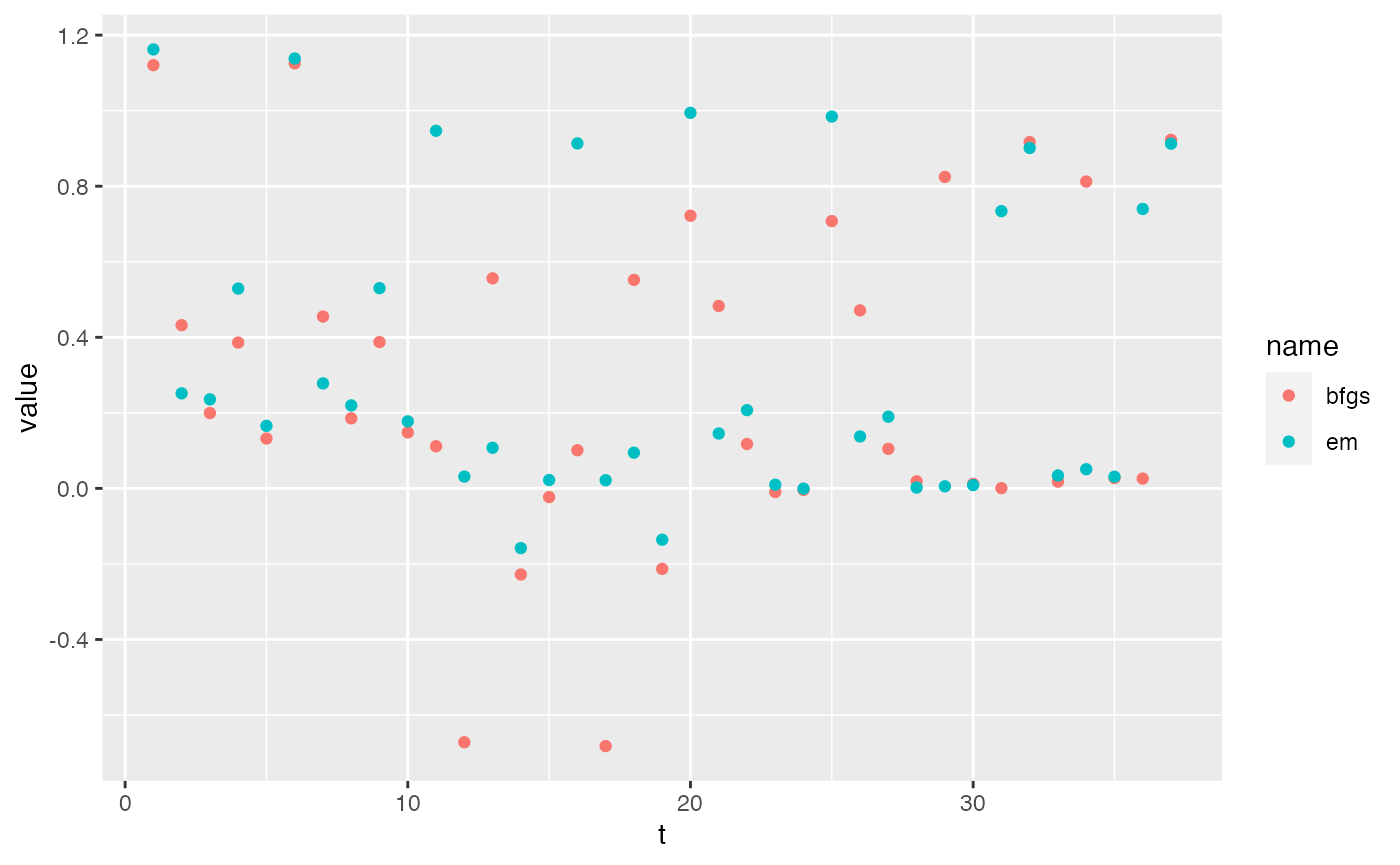
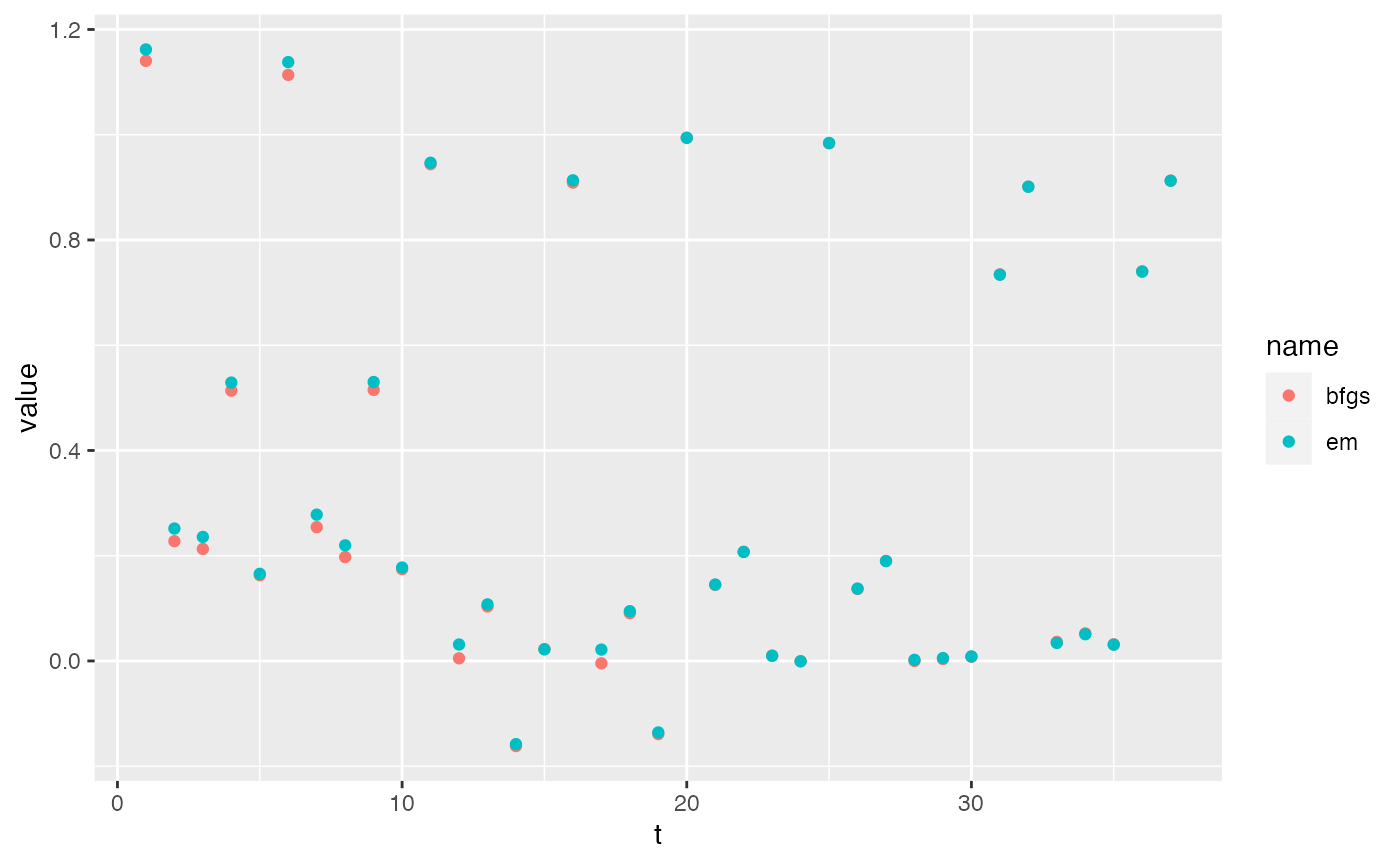
try remaining MARSStmb

diff --git a/docs/articles/DFA.html b/docs/articles/DFA.html
@@ -81,7 +81,7 @@
       <h1 data-toc-skip>Dynamic Factor Analysis</h1>
                         <h4 data-toc-skip class="author">Eli Holmes</h4>
             
-            <h4 data-toc-skip class="date">2023-04-29</h4>
+            <h4 data-toc-skip class="date">2023-04-30</h4>
       
       <small class="dont-index">Source: <a href="https://github.com/atsa-es/marssTMB/blob/HEAD/vignettes/DFA.Rmd" class="external-link"><code>vignettes/DFA.Rmd</code></a></small>
       <div class="hidden name"><code>DFA.Rmd</code></div>
@@ -146,27 +146,38 @@ and unequal, and unconstrained.</p>
 <span><span class="va">m1.tmb</span> <span class="op">&lt;-</span> <span class="fu"><a href="../reference/dfaTMB.html">dfaTMB</a></span><span class="op">(</span><span class="va">dat</span>, model<span class="op">=</span><span class="va">mod.list</span><span class="op">)</span></span>
 <span><span class="fu"><a href="https://rdrr.io/r/base/c.html" class="external-link">c</a></span><span class="op">(</span><span class="va">m1.bfgs</span><span class="op">$</span><span class="va">logLik</span>, <span class="va">m1.tmb</span><span class="op">$</span><span class="va">logLik</span><span class="op">)</span></span>
 <span><span class="co">#&gt; [1] -798.3209 -798.3209</span></span></code></pre></div>
+<div class="section level2">
+<h2 id="look-at-a-bigger-data-set">Look at a bigger data set<a class="anchor" aria-label="anchor" href="#look-at-a-bigger-data-set"></a>
+</h2>
 <p>Compare three states models with R diagonal and unequal and 12 time
-series. The EM algorithm struggles to converge with DFA models.</p>
+series. The EM algorithm and TMB algorithms struggles to converge with
+DFA models. This is specific to this set of time series.</p>
 <div class="sourceCode" id="cb8"><pre class="downlit sourceCode r">
 <code class="sourceCode R"><span><span class="va">dat2</span> <span class="op">&lt;-</span> <span class="fu"><a href="https://rdrr.io/r/base/cbind.html" class="external-link">rbind</a></span><span class="op">(</span><span class="va">dat</span>, <span class="va">dat</span><span class="op">+</span><span class="fu"><a href="https://rdrr.io/r/base/matrix.html" class="external-link">matrix</a></span><span class="op">(</span><span class="fu"><a href="https://rdrr.io/r/stats/Normal.html" class="external-link">rnorm</a></span><span class="op">(</span><span class="fu"><a href="https://rdrr.io/r/base/nrow.html" class="external-link">nrow</a></span><span class="op">(</span><span class="va">dat</span><span class="op">)</span><span class="op">*</span><span class="fu"><a href="https://rdrr.io/r/base/nrow.html" class="external-link">ncol</a></span><span class="op">(</span><span class="va">dat</span><span class="op">)</span>,<span class="fl">0</span>,<span class="fl">0.2</span><span class="op">)</span>, <span class="fu"><a href="https://rdrr.io/r/base/nrow.html" class="external-link">nrow</a></span><span class="op">(</span><span class="va">dat</span><span class="op">)</span>, <span class="fu"><a href="https://rdrr.io/r/base/nrow.html" class="external-link">ncol</a></span><span class="op">(</span><span class="va">dat</span><span class="op">)</span><span class="op">)</span><span class="op">)</span></span>
 <span><span class="va">dat2</span> <span class="op">&lt;-</span> <span class="fu">MARSS</span><span class="fu">::</span><span class="fu"><a href="https://rdrr.io/pkg/MARSS/man/zscore.html" class="external-link">zscore</a></span><span class="op">(</span><span class="va">dat2</span><span class="op">)</span></span>
 <span><span class="va">mod.list</span> <span class="op">&lt;-</span> <span class="fu"><a href="https://rdrr.io/r/base/list.html" class="external-link">list</a></span><span class="op">(</span>R<span class="op">=</span><span class="st">'diagonal and unequal'</span>, m<span class="op">=</span><span class="fl">3</span>, tinitx<span class="op">=</span><span class="fl">1</span><span class="op">)</span></span>
-<span><span class="va">t1.bfgs</span> <span class="op">&lt;-</span> <span class="fu"><a href="https://rdrr.io/r/base/system.time.html" class="external-link">system.time</a></span><span class="op">(</span><span class="va">m1.bfgs</span> <span class="op">&lt;-</span> <span class="fu"><a href="https://rdrr.io/pkg/MARSS/man/MARSS.html" class="external-link">MARSS</a></span><span class="op">(</span><span class="va">dat2</span>, model<span class="op">=</span><span class="va">mod.list</span>, form<span class="op">=</span><span class="st">'dfa'</span>, z.score<span class="op">=</span><span class="cn">FALSE</span>, silent <span class="op">=</span> <span class="cn">TRUE</span>, method<span class="op">=</span><span class="st">"BFGS"</span><span class="op">)</span><span class="op">)</span><span class="op">[</span><span class="fl">1</span><span class="op">]</span></span>
+<span><span class="co"># Control set to match setting in MARSS.tmp()</span></span>
+<span><span class="va">t1.bfgs</span> <span class="op">&lt;-</span> <span class="fu"><a href="https://rdrr.io/r/base/system.time.html" class="external-link">system.time</a></span><span class="op">(</span><span class="va">m1.bfgs</span> <span class="op">&lt;-</span> <span class="fu"><a href="https://rdrr.io/pkg/MARSS/man/MARSS.html" class="external-link">MARSS</a></span><span class="op">(</span><span class="va">dat2</span>, </span>
+<span>                                        model<span class="op">=</span><span class="va">mod.list</span>, form<span class="op">=</span><span class="st">'dfa'</span>, </span>
+<span>                                        z.score<span class="op">=</span><span class="cn">FALSE</span>, silent <span class="op">=</span> <span class="cn">TRUE</span>, method<span class="op">=</span><span class="st">"BFGS"</span>, </span>
+<span>                                        control <span class="op">=</span> <span class="fu"><a href="https://rdrr.io/r/base/list.html" class="external-link">list</a></span><span class="op">(</span>reltol <span class="op">=</span> <span class="fl">1e-12</span>, maxit<span class="op">=</span><span class="fl">2000</span><span class="op">)</span><span class="op">)</span><span class="op">)</span><span class="op">[</span><span class="fl">1</span><span class="op">]</span></span>
 <span><span class="va">t1.em</span> <span class="op">&lt;-</span> <span class="fu"><a href="https://rdrr.io/r/base/system.time.html" class="external-link">system.time</a></span><span class="op">(</span><span class="va">m1.em</span> <span class="op">&lt;-</span> <span class="fu"><a href="https://rdrr.io/pkg/MARSS/man/MARSS.html" class="external-link">MARSS</a></span><span class="op">(</span><span class="va">dat2</span>, model<span class="op">=</span><span class="va">mod.list</span>, form<span class="op">=</span><span class="st">'dfa'</span>, z.score<span class="op">=</span><span class="cn">FALSE</span>, silent <span class="op">=</span> <span class="cn">TRUE</span><span class="op">)</span><span class="op">)</span><span class="op">[</span><span class="fl">1</span><span class="op">]</span></span>
 <span><span class="va">t1.tmb</span> <span class="op">&lt;-</span> <span class="fu"><a href="https://rdrr.io/r/base/system.time.html" class="external-link">system.time</a></span><span class="op">(</span><span class="va">m1.tmb</span> <span class="op">&lt;-</span> <span class="fu"><a href="../reference/dfaTMB.html">dfaTMB</a></span><span class="op">(</span><span class="va">dat2</span>, model<span class="op">=</span><span class="va">mod.list</span><span class="op">)</span><span class="op">)</span><span class="op">[</span><span class="fl">1</span><span class="op">]</span></span>
 <span><span class="va">t1.tmb2</span> <span class="op">&lt;-</span> <span class="fu"><a href="https://rdrr.io/r/base/system.time.html" class="external-link">system.time</a></span><span class="op">(</span><span class="va">m1.tmb2</span> <span class="op">&lt;-</span> <span class="fu"><a href="../reference/dfaTMB.html">dfaTMB</a></span><span class="op">(</span><span class="va">dat2</span>, model<span class="op">=</span><span class="va">mod.list</span>, fun.opt<span class="op">=</span><span class="st">"optim"</span><span class="op">)</span><span class="op">)</span><span class="op">[</span><span class="fl">1</span><span class="op">]</span></span></code></pre></div>
-<p>TMB is much faster. But at the default convergence settings, BFGS ran
-longer and got to a higher maximum likelihood.</p>
+<p>TMB + nlminb() is much faster. But at the default convergence
+settings, the Kalman-Filter + BFGS ran longer and got to a higher
+maximum likelihood. This seems to be an issue with TMB for both the
+optimizers. Also the speed savings seems to be due to nlminb() not TMB
+per se.</p>
 <div class="sourceCode" id="cb9"><pre class="downlit sourceCode r">
 <code class="sourceCode R"><span><span class="co"># Log-likelihood</span></span>
 <span><span class="fu"><a href="https://rdrr.io/r/base/c.html" class="external-link">c</a></span><span class="op">(</span>em<span class="op">=</span><span class="va">m1.em</span><span class="op">$</span><span class="va">logLik</span>, kfoptim<span class="op">=</span><span class="va">m1.bfgs</span><span class="op">$</span><span class="va">logLik</span>, TMBnlminb<span class="op">=</span><span class="va">m1.tmb</span><span class="op">$</span><span class="va">logLik</span>, TMBoptim<span class="op">=</span><span class="va">m1.tmb2</span><span class="op">$</span><span class="va">logLik</span><span class="op">)</span></span>
-<span><span class="co">#&gt;        em   kfoptim TMBnlminb </span></span>
-<span><span class="co">#&gt; -1096.381 -1036.093 -1096.186</span></span>
+<span><span class="co">#&gt;        em   kfoptim TMBnlminb  TMBoptim </span></span>
+<span><span class="co">#&gt; -1096.381 -1096.186 -1096.186 -1269.752</span></span>
 <span><span class="co"># Time</span></span>
 <span><span class="fu"><a href="https://rdrr.io/r/base/c.html" class="external-link">c</a></span><span class="op">(</span>em<span class="op">=</span><span class="va">t1.em</span>, kfoptim<span class="op">=</span><span class="va">t1.bfgs</span>, TMBnlminb<span class="op">=</span><span class="va">t1.tmb</span>, TMBoptim<span class="op">=</span><span class="va">t1.tmb2</span><span class="op">)</span></span>
 <span><span class="co">#&gt;        em.user.self   kfoptim.user.self TMBnlminb.user.self  TMBoptim.user.self </span></span>
-<span><span class="co">#&gt;               7.163              15.155               1.659              15.507</span></span></code></pre></div>
+<span><span class="co">#&gt;               7.193              10.002               1.605               6.224</span></span></code></pre></div>
 <p>It might be an odd initial condition issue as if BFGS is started with
 EM, it does not find the lower log-likelihood but ends up at the higher
 value that EM and TMB found. Note, this varies a bit. This is for
@@ -177,18 +188,21 @@ value that EM and TMB found. Note, this varies a bit. This is for
 <span><span class="va">t2.bfgs</span> <span class="op">&lt;-</span> <span class="fu"><a href="https://rdrr.io/r/base/system.time.html" class="external-link">system.time</a></span><span class="op">(</span><span class="va">m2.bfgs</span> <span class="op">&lt;-</span> <span class="fu"><a href="https://rdrr.io/pkg/MARSS/man/MARSS.html" class="external-link">MARSS</a></span><span class="op">(</span><span class="va">dat2</span>, model<span class="op">=</span><span class="va">mod.list</span>, form<span class="op">=</span><span class="st">'dfa'</span>, z.score<span class="op">=</span><span class="cn">FALSE</span>, silent <span class="op">=</span> <span class="cn">TRUE</span>, method<span class="op">=</span><span class="st">"BFGS"</span>, inits <span class="op">=</span> <span class="va">m1</span><span class="op">)</span><span class="op">)</span><span class="op">[</span><span class="fl">1</span><span class="op">]</span></span>
 <span><span class="fu"><a href="https://rdrr.io/r/base/c.html" class="external-link">c</a></span><span class="op">(</span><span class="va">t2.bfgs</span>, <span class="va">m2.bfgs</span><span class="op">$</span><span class="va">logLik</span><span class="op">)</span></span>
 <span><span class="co">#&gt; user.self           </span></span>
-<span><span class="co">#&gt;     4.258 -1096.186</span></span></code></pre></div>
+<span><span class="co">#&gt;     8.611 -1096.186</span></span></code></pre></div>
 <div class="sourceCode" id="cb11"><pre class="downlit sourceCode r">
 <code class="sourceCode R"><span><span class="kw"><a href="https://rdrr.io/r/base/library.html" class="external-link">library</a></span><span class="op">(</span><span class="va"><a href="https://broom.tidymodels.org/" class="external-link">broom</a></span><span class="op">)</span></span>
 <span><span class="va">df</span> <span class="op">&lt;-</span> <span class="fu"><a href="https://rdrr.io/r/base/data.frame.html" class="external-link">data.frame</a></span><span class="op">(</span>t<span class="op">=</span><span class="fl">1</span><span class="op">:</span><span class="fl">37</span>, bfgs<span class="op">=</span><span class="fu"><a href="https://generics.r-lib.org/reference/tidy.html" class="external-link">tidy</a></span><span class="op">(</span><span class="va">m1.bfgs</span><span class="op">)</span><span class="op">$</span><span class="va">estimate</span>, em<span class="op">=</span><span class="fu"><a href="https://generics.r-lib.org/reference/tidy.html" class="external-link">tidy</a></span><span class="op">(</span><span class="va">m1.em</span><span class="op">)</span><span class="op">$</span><span class="va">estimate</span><span class="op">)</span> <span class="op">|&gt;</span></span>
 <span>  <span class="fu"><a href="https://tidyr.tidyverse.org/reference/pivot_longer.html" class="external-link">pivot_longer</a></span><span class="op">(</span><span class="fl">2</span><span class="op">:</span><span class="fl">3</span><span class="op">)</span></span>
 <span><span class="fu"><a href="https://ggplot2.tidyverse.org/reference/ggplot.html" class="external-link">ggplot</a></span><span class="op">(</span><span class="va">df</span>, <span class="fu"><a href="https://ggplot2.tidyverse.org/reference/aes.html" class="external-link">aes</a></span><span class="op">(</span>x<span class="op">=</span><span class="va">t</span>, y<span class="op">=</span><span class="va">value</span>, col<span class="op">=</span><span class="va">name</span><span class="op">)</span><span class="op">)</span> <span class="op">+</span> <span class="fu"><a href="https://ggplot2.tidyverse.org/reference/geom_point.html" class="external-link">geom_point</a></span><span class="op">(</span><span class="op">)</span></span></code></pre></div>
 <p><img src="DFA_files/figure-html/unnamed-chunk-12-1.png" width="700"></p>
+</div>
   </div>
 
   <div class="col-md-3 hidden-xs hidden-sm" id="pkgdown-sidebar">
 
-      </div>
+        <nav id="toc" data-toggle="toc"><h2 data-toc-skip>Contents</h2>
+    </nav>
+</div>
 
 </div>
 

diff --git a/docs/reference/dfaTMB.html b/docs/reference/dfaTMB.html
@@ -74,7 +74,7 @@
 <span>  Dfac <span class="op">=</span> <span class="cn">NULL</span>,</span>
 <span>  EstSE <span class="op">=</span> <span class="cn">FALSE</span>,</span>
 <span>  silent <span class="op">=</span> <span class="cn">TRUE</span>,</span>
-<span>  fun.opt <span class="op">=</span> <span class="fu"><a href="https://rdrr.io/r/base/c.html" class="external-link">c</a></span><span class="op">(</span><span class="st">"nlminb"</span>, <span class="st">"optim"</span><span class="op">)</span>,</span>
+<span>  fun.opt <span class="op">=</span> <span class="fu"><a href="https://rdrr.io/r/base/c.html" class="external-link">c</a></span><span class="op">(</span><span class="st">"nlminb"</span>, <span class="st">"optim"</span>, <span class="st">"nlminb+optim"</span><span class="op">)</span>,</span>
 <span>  method <span class="op">=</span> <span class="fu"><a href="https://rdrr.io/r/base/c.html" class="external-link">c</a></span><span class="op">(</span><span class="st">"Nelder-Mead"</span>, <span class="st">"BFGS"</span>, <span class="st">"CG"</span>, <span class="st">"L-BFGS-B"</span>, <span class="st">"SANN"</span>, <span class="st">"Brent"</span><span class="op">)</span>,</span>
 <span>  control <span class="op">=</span> <span class="cn">NULL</span>,</span>
 <span>  form <span class="op">=</span> <span class="fu"><a href="https://rdrr.io/r/base/c.html" class="external-link">c</a></span><span class="op">(</span><span class="st">"dfa"</span>, <span class="st">"marxss"</span><span class="op">)</span></span>
